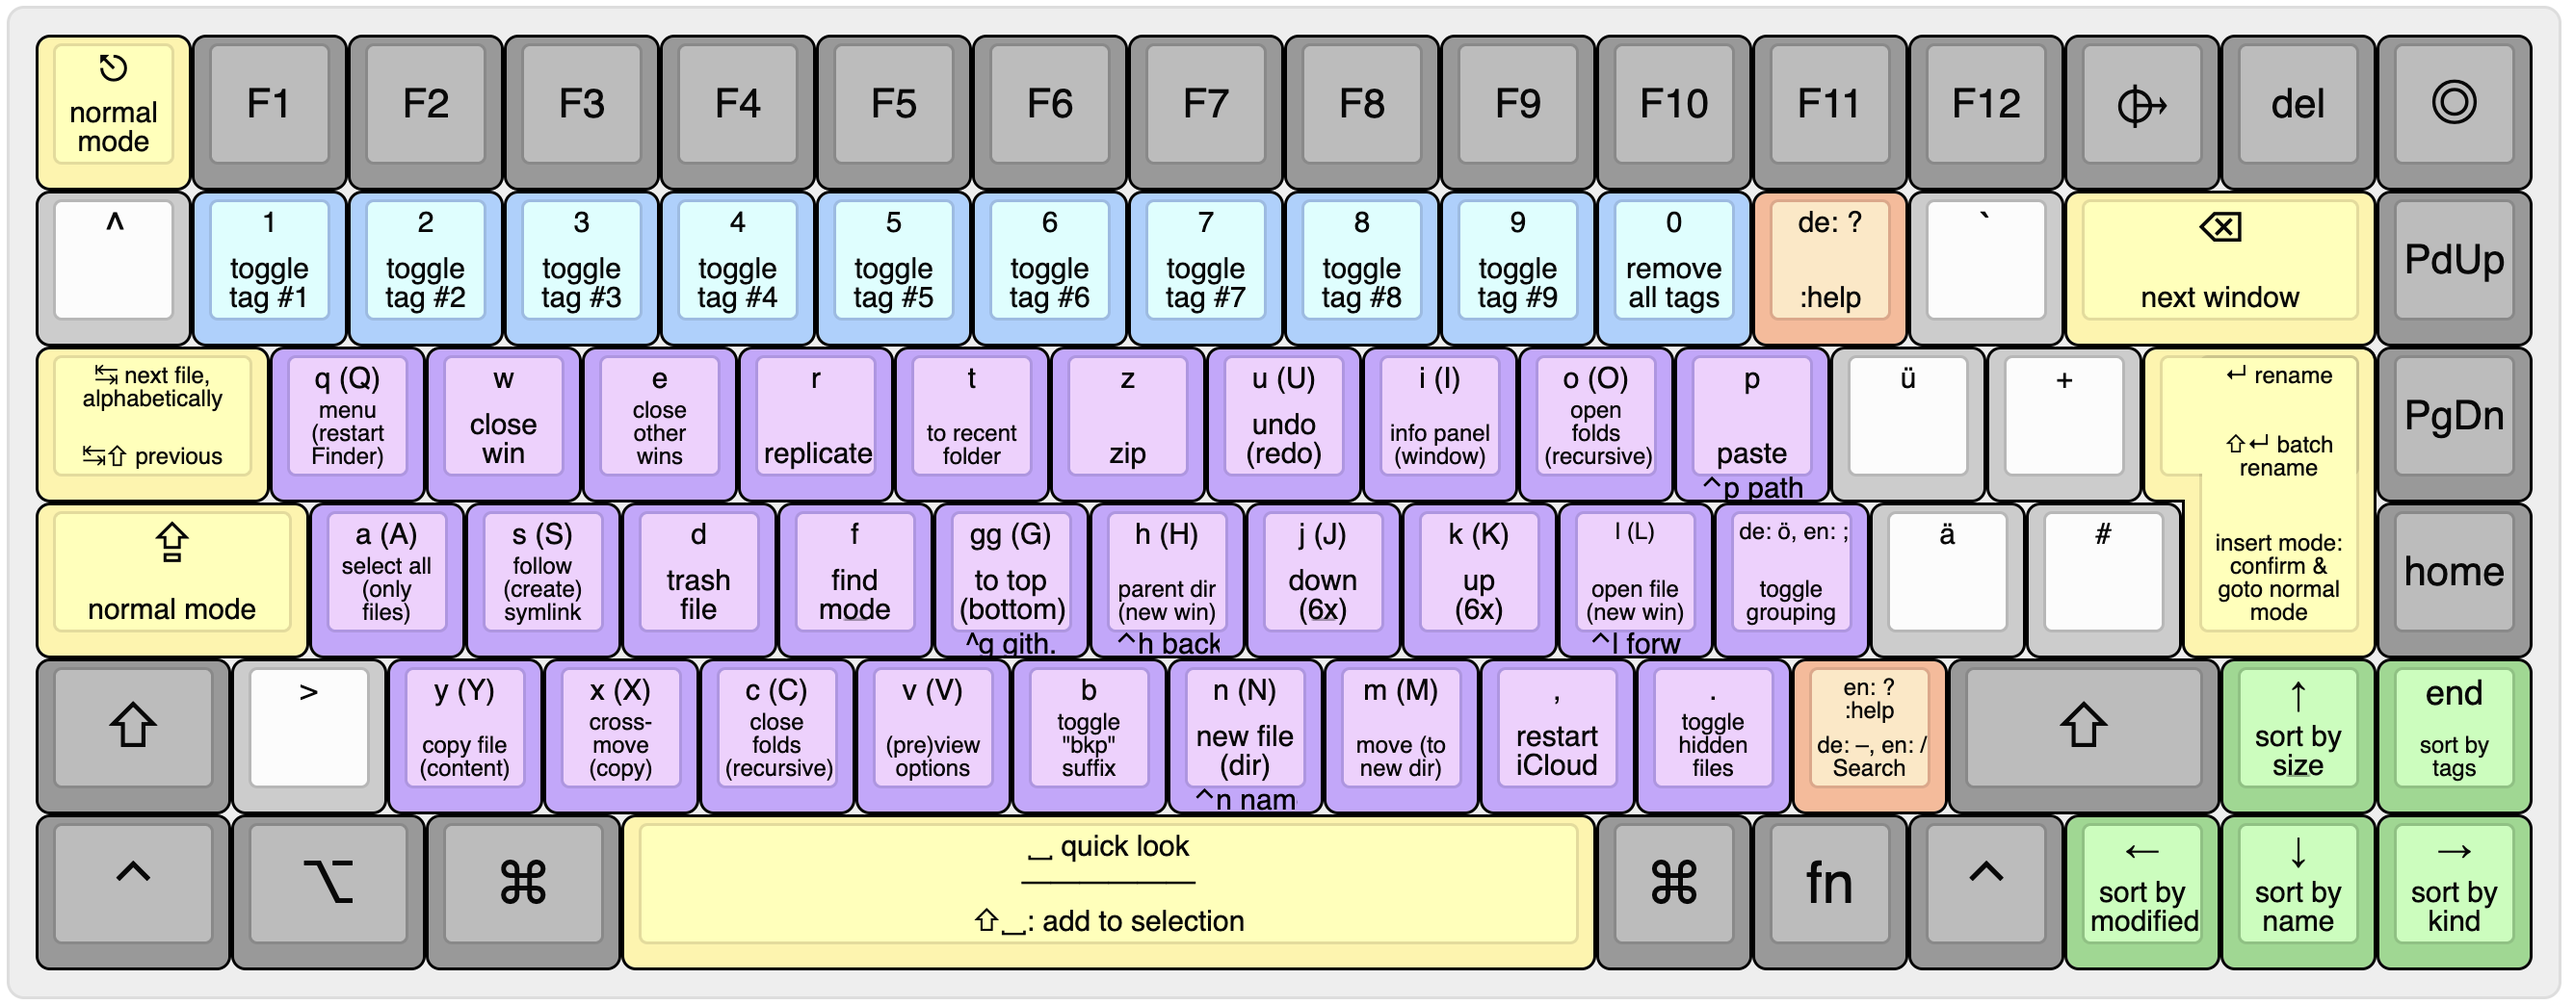
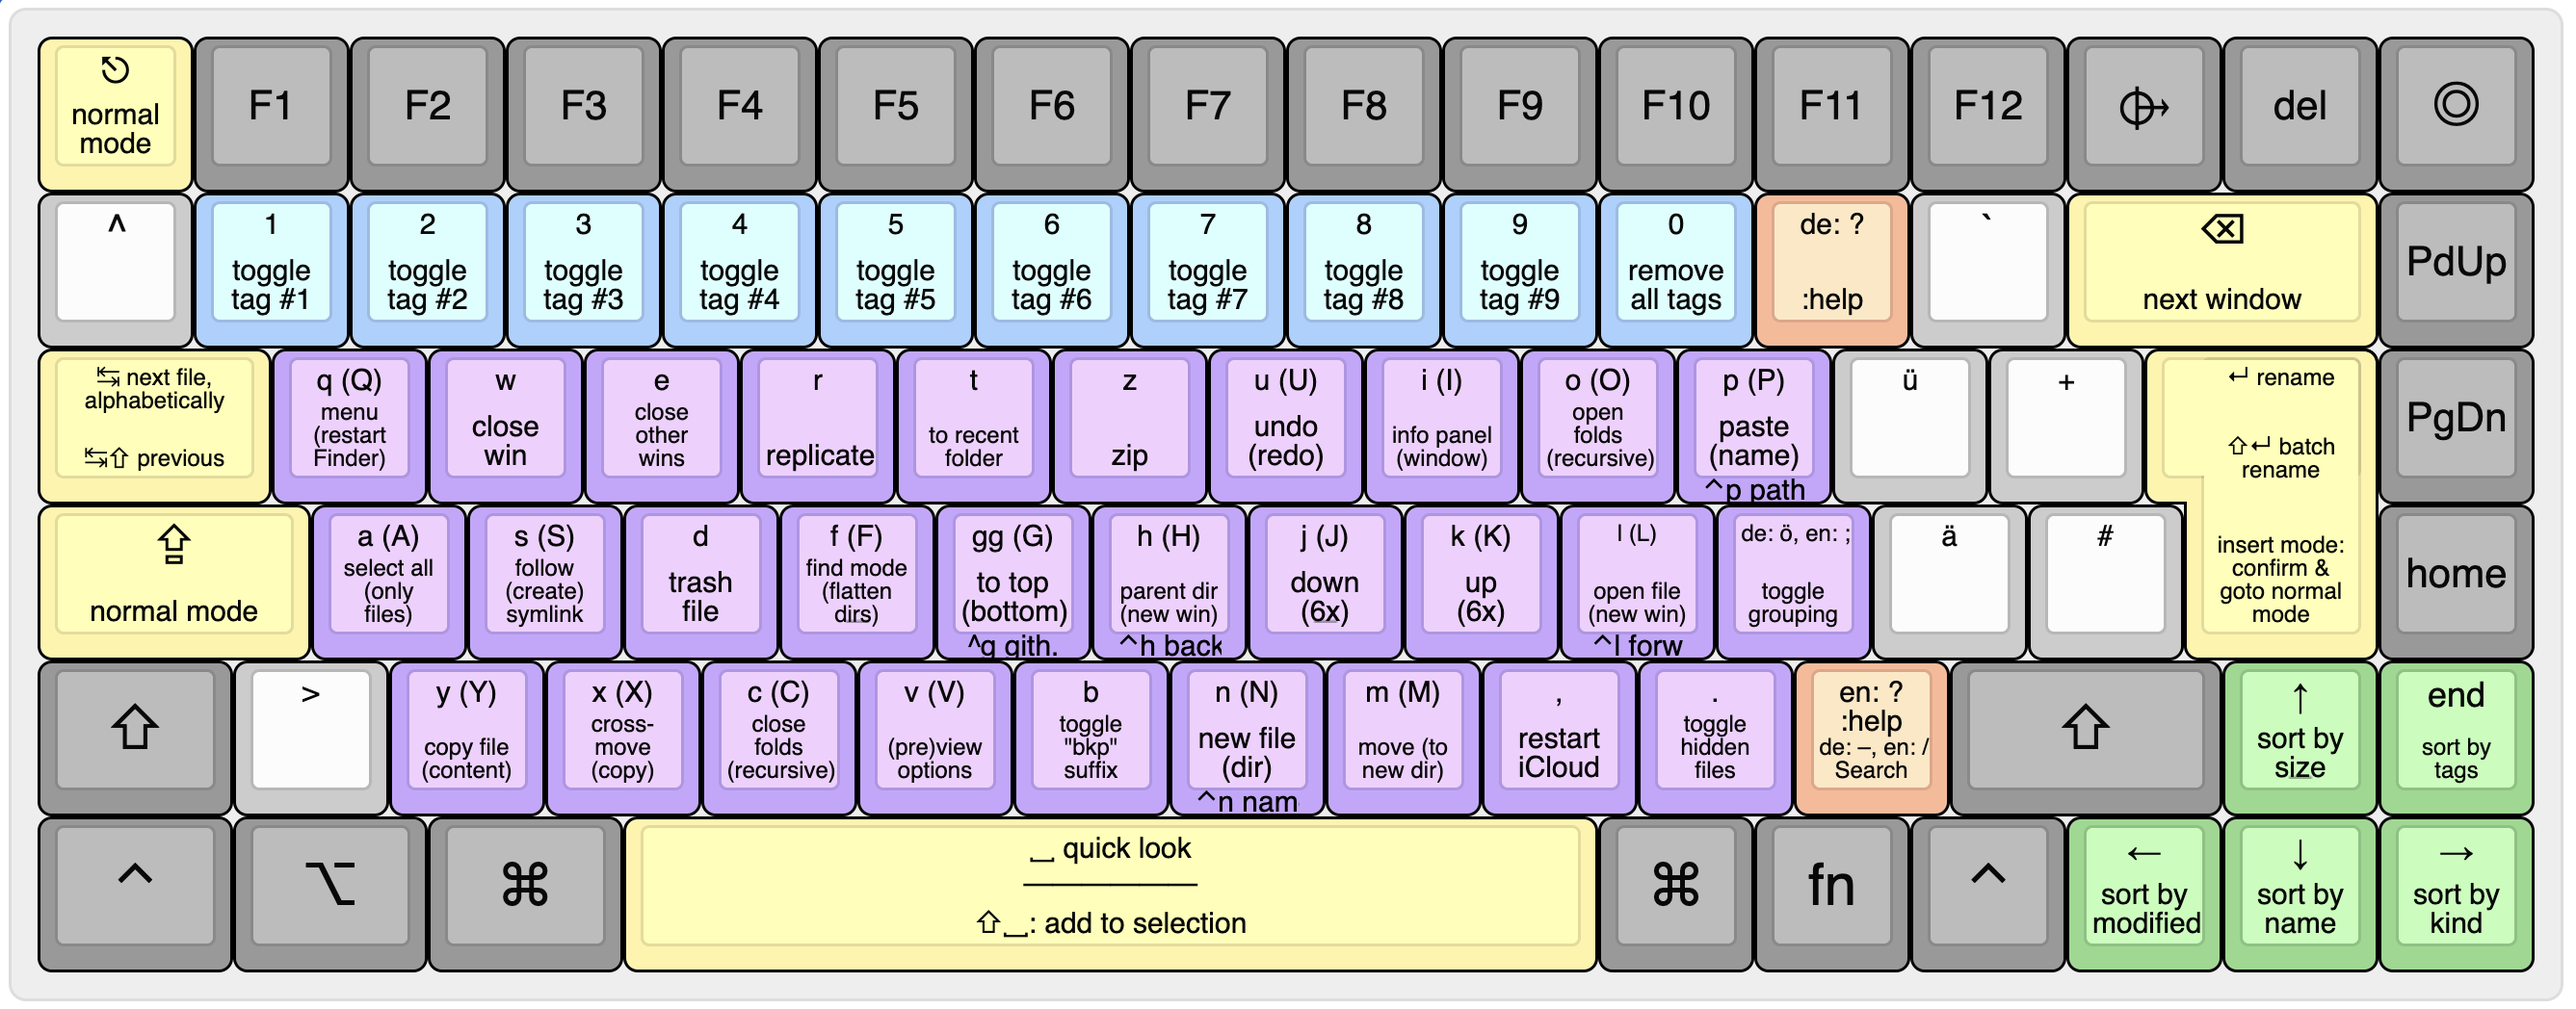
feat: `F`: Flatten dirs & `P` paste name

diff --git a/README.md b/README.md
@@ -32,10 +32,14 @@ Feature-rich control of macOS Finder without the mouse, inspired by vim and rang
 - __Find mode__ is triggered via `f`, works similar to `f` in vim, expecting another character afterward. For example, `fh` jumps to the next file that starts with the letter `h`.
 - __Toggle `-bkp` suffix__: Add suffix `-bkp` to the file. If it already has such a suffix, remove it. Useful for debugging as well.
 - __`Tab`__ goes to the next file in alphabetical order, *even when the view is not sorted alphabetically.* (This is actually a built-in feature of Finder, but probably worth pointing out since barely anyone knows about it.)
+- Flatten directories: `F` flattens all selected folders recursively, meaning that all *files* inside these directories (and their subdirectories) are moved up to the current folder. The folders are then deleted. (Note that this cannot be undone.)
+- Paste name: `P` pastes the text in the clipboard content "onto" the currently selected file, that is renaming the file to the text.
 - __Open in GitHub__: If the file is in a git repo, `Ctrl+g` opens the file at GitHub and also copies the URL to the clipboard.
-- __Pressing `return` in a prompt window__, for example when replacing a
-file, mistakenly puts you in Insert Mode. (Unfortunately, Karabiner is not able to detect whether the front window is a regular Finder window or a prompt). The workaround is to either press `esc` to go back to Normal Mode, or to use `tab` and `space` to select the correct action in the prompt window.
 - __Batch Rename__ *(experimental)*: Rename with JavaScript-flavored Regex.
+
+> [!NOTE]
+> __Pressing `return` in a prompt window__, for example when replacing a
+file, mistakenly puts you in Insert Mode. (Unfortunately, Karabiner is not able to detect whether the front window is a regular Finder window or a prompt). The workaround is to either press `esc` to go back to Normal Mode, or to use `tab` and `space` to select the correct action in the prompt window.
 
 ## Installation
 1. Run this in your terminal:
